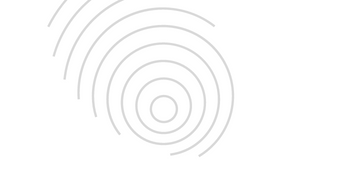
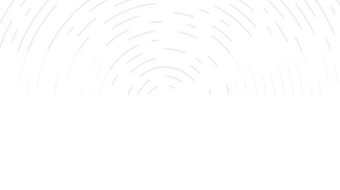
apkbetacreate

diff --git a/lib/pages/task_two.dart b/lib/pages/task_two.dart
@@ -53,57 +53,68 @@ class TaskTwo extends StatelessWidget {
                   child: Positioned(
                     left: 10.0,
                     bottom: -100,
-                    child: Container(
-                      color: Colors.white,
-                      width: 340.0,
-                      height: 190.0,
-                      child: Column(
-                        children: [
-                          Divider(
-                            height: 50,
-                            color: Colors.transparent,
-                          ),
-                          Row(
-                            mainAxisAlignment: MainAxisAlignment.center,
+                    child: Stack(
+                      children: [
+                        Container(
+                          width: 340.0,
+                          height: 190.0,
+                          child:
+                              Image(image: AssetImage("assets/image/ADN.png")),
+                        ),
+                        Container(
+                          width: 340.0,
+                          height: 190.0,
+                          child: Column(
                             children: [
-                              Text(
-                                "Monto",
-                                style: TextStyle(
-                                    color: Color(0xFFF87A0A5), fontSize: 18),
+                              Divider(
+                                height: 50,
+                                color: Colors.transparent,
                               ),
-                              SizedBox(
-                                  width: 20.0,
-                                  height: 20.0,
-                                  child: Image(
-                                    image: AssetImage("assets/image/dolar.png"),
-                                    color: Color(0xFFF87A0A5),
-                                  )),
-                            ],
-                          ),
-                          Padding(
-                            padding: const EdgeInsets.all(8.0),
-                            child: TextField(
-                                controller: dinero,
-                                keyboardType: TextInputType.number,
-                                cursorColor: Color(0xFFF39555),
-                                textAlign: TextAlign.center,
-                                style: TextStyle(
-                                    fontSize: 50.0,
-                                    fontWeight: FontWeight.normal,
-                                    color: Color(0xFFF39555)),
-                                decoration: InputDecoration(
-                                    focusedBorder: UnderlineInputBorder(
-                                      borderSide:
-                                          BorderSide(color: Color(0xFFFA9A9A9)),
-                                    ),
-                                    hintText: "0,00",
-                                    hintStyle: TextStyle(
+                              Row(
+                                mainAxisAlignment: MainAxisAlignment.center,
+                                children: [
+                                  Text(
+                                    "Monto",
+                                    style: TextStyle(
+                                        color: Color(0xFFF87A0A5),
+                                        fontSize: 18),
+                                  ),
+                                  SizedBox(
+                                      width: 20.0,
+                                      height: 20.0,
+                                      child: Image(
+                                        image: AssetImage(
+                                            "assets/image/dolar.png"),
+                                        color: Color(0xFFF87A0A5),
+                                      )),
+                                ],
+                              ),
+                              Padding(
+                                padding: const EdgeInsets.all(8.0),
+                                child: TextField(
+                                    controller: dinero,
+                                    keyboardType: TextInputType.number,
+                                    cursorColor: Color(0xFFF39555),
+                                    textAlign: TextAlign.center,
+                                    style: TextStyle(
                                         fontSize: 50.0,
                                         fontWeight: FontWeight.normal,
-                                        color: Color(0xFFF39555)))),
-                          )
-                        ],
-                      ),
+                                        color: Color(0xFFF39555)),
+                                    decoration: InputDecoration(
+                                        focusedBorder: UnderlineInputBorder(
+                                          borderSide: BorderSide(
+                                              color: Color(0xFFFA9A9A9)),
+                                        ),
+                                        hintText: "0,00",
+                                        hintStyle: TextStyle(
+                                            fontSize: 50.0,
+                                            fontWeight: FontWeight.normal,
+                                            color: Color(0xFFF39555)))),
+                              )
+                            ],
+                          ),
+                        ),
+                      ],
                     ),
                   ),
                 ),

diff --git a/lib/pages/task_three.dart b/lib/pages/task_three.dart
@@ -124,49 +124,57 @@ class TaskThree extends StatelessWidget {
                                   ),
 
                                   //ETAPA N°2************************************************************
-                                  Container(
-                                    width: 340.0,
-                                    height: 190.0,
-                                    //color: Colors.yellow,
-                                    child: Column(
-                                      children: [
-                                        Divider(
-                                          height: 30,
-                                          color: Colors.transparent,
-                                        ),
-                                        Row(
-                                          mainAxisAlignment:
-                                              MainAxisAlignment.center,
+                                  Stack(
+                                    children: [
+                                      Container(
+                                        width: 340.0,
+                                        height: 190.0,
+                                        child: Image(image: AssetImage("assets/image/ADN.png")),
+                                      ),
+                                      Container(
+                                        width: 340.0,
+                                        height: 190.0,
+                                        child: Column(
                                           children: [
-                                            Text(
-                                              "Monto",
-                                              style: TextStyle(
-                                                  color: Color(0xFFF32AFDF),
-                                                  fontSize: 20.0),
+                                            Divider(
+                                              height: 30,
+                                              color: Colors.transparent,
                                             ),
-                                            SizedBox(
-                                                width: 25.0,
-                                                height: 25.0,
-                                                child: Image(
-                                                  image: AssetImage(
-                                                      "assets/image/dolar.png"),
-                                                  color: Color(0xFFF0889BB),
-                                                )),
+                                            Row(
+                                              mainAxisAlignment:
+                                                  MainAxisAlignment.center,
+                                              children: [
+                                                Text(
+                                                  "Monto",
+                                                  style: TextStyle(
+                                                      color: Color(0xFFF32AFDF),
+                                                      fontSize: 20.0),
+                                                ),
+                                                SizedBox(
+                                                    width: 25.0,
+                                                    height: 25.0,
+                                                    child: Image(
+                                                      image: AssetImage(
+                                                          "assets/image/dolar.png"),
+                                                      color: Color(0xFFF0889BB),
+                                                    )),
+                                              ],
+                                            ),
+                                            Divider(
+                                              height: 30,
+                                              color: Colors.transparent,
+                                            ),
+                                            Text(
+                                              _alias,
+                                              style: TextStyle(
+                                                  fontSize: 60.0,
+                                                  fontWeight: FontWeight.w400,
+                                                  color: Color(0xFFF39555)),
+                                            )
                                           ],
                                         ),
-                                        Divider(
-                                          height: 30,
-                                          color: Colors.transparent,
-                                        ),
-                                        Text(
-                                          _alias,
-                                          style: TextStyle(
-                                              fontSize: 60.0,
-                                              fontWeight: FontWeight.w400,
-                                              color: Color(0xFFF39555)),
-                                        )
-                                      ],
-                                    ),
+                                      ),
+                                    ],
                                   ),
                                   //ETAPA N° 3****************************************************************************************************
 
